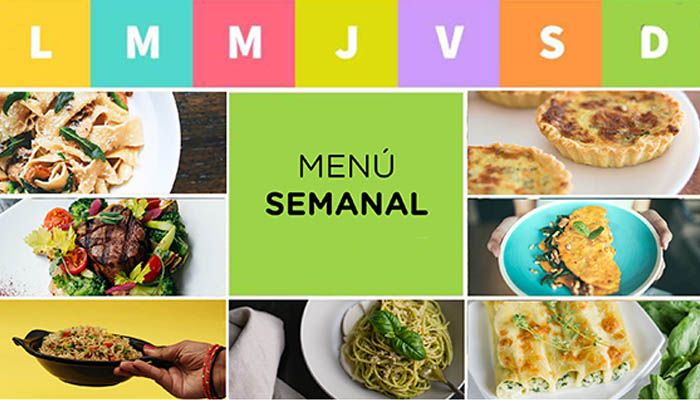
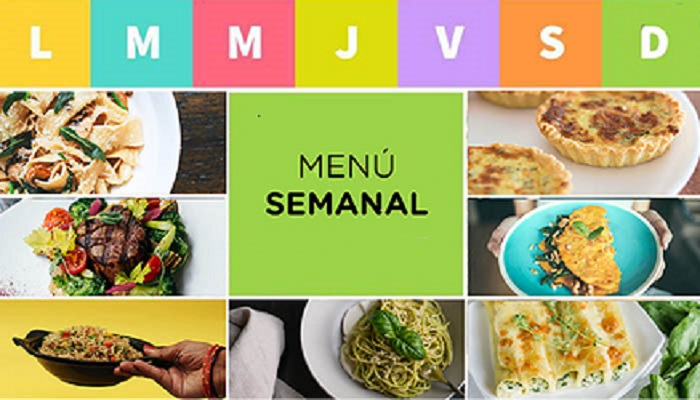
carousel

diff --git a/index.html b/index.html
@@ -8,6 +8,7 @@
       rel="stylesheet">
     <link rel="stylesheet" href="./css/estilos.css">
     <script src="https://kit.fontawesome.com/cf6a7ffcdc.js" crossorigin="anonymous"></script>
+    <link rel="stylesheet" href="https://cdn.jsdelivr.net/npm/bootstrap@4.0.0/dist/css/bootstrap.min.css" integrity="sha384-Gn5384xqQ1aoWXA+058RXPxPg6fy4IWvTNh0E263XmFcJlSAwiGgFAW/dAiS6JXm" crossorigin="anonymous">
     <title>Fresh Market</title>
 </head>
 <body class="body-index">
@@ -22,7 +23,9 @@
         <article >
             <a href="./carrito.html"><span class="material-icons">
                 shopping_cart
-                </span></a>
+                </span>
+                <span id="cantidadCarrito"></span>
+            </a>
             
         </article>    
         </section>
@@ -46,11 +49,30 @@
         </ul>
     </nav>
     <main>
-        <section class="carrousel-principal">
-            <article >
-                <img src="./img/frutas-verduras-carrousel.jpg" alt="banner1" > 
-            </article>
-        </section>
+            <section id="carouselindex" class="carousel slide" data-ride="carousel">
+                <div class="carousel-inner">
+                  <div class="carousel-item active">
+                    <img class="d-block w-50" src="./img/menusemanal2.jpg" alt="First slide" >
+                  </div>
+                  <div class="carousel-item">
+                    <img class="d-block w-50" src="./img/frutas-verduras.jpg" alt="Second slide">
+                  </div>
+                  <div class="carousel-item">
+                    <img class="d-block w-50" src="./img/viandas-saludables-3.jpg" alt="Third slide">
+                  </div>
+                </div>
+
+                
+                <a class="carousel-control-prev" href="#carouselindex" role="button" data-slide="prev">
+                  <span class="carousel-control-prev-icon" aria-hidden="true"></span>
+                  <span class="sr-only">Previous</span>
+                </a>
+                <a class="carousel-control-next" href="#carouselindex" role="button" data-slide="next">
+                  <span class="carousel-control-next-icon" aria-hidden="true"></span>
+                  <span class="sr-only">Next</span>
+                </a>
+            </section>
+
         <section class="categorias">
             <h2>CATEGORIAS</h2>
             <article>
@@ -60,36 +82,55 @@
                 <a href="./categoriaViandas.html">VIANDAS</a>
             </article>
         </section>
-        <aside class="mas-vendidos" >
-            
-             <h2>PRODUCTOS MAS VENDIDOS</h2>    
-                <ul>               
-                <li class="menu1">
-                    <p>400$</p>
-                <label >Tarta verdura
-                    <a href="./carrito.html"><i class="fa-solid fa-cart-arrow-down"></i></a>
-                </label>
-                </li>
-                <li class="menu2">
-                    <p>400$</p>
-                    <label >Vianda 
-                        <a href="./carrito.html"><i class="fa-solid fa-cart-arrow-down"></i></a>
-                    </label>
-                </li>
-                <li class="menu3">
-                    <p>400$</p>
-                    <label >Menu detox
-                        <a href="./carrito.html"><i class="fa-solid fa-cart-arrow-down"></i></a>
-                    </label>
-                    
-                </li>
-                </ul>
+
+
+        <aside >
+            <h2 class="mas-vendidos-title">PRODUCTOS MAS VENDIDOS</h2>
+            <article class="mas-vendidos">
+                <div class="card" style="width: 18rem;">
+                    <img class="card-img-top" src="./img/tarta-calabaza.jpg" alt="Card image cap">
+                    <div class="card-body">
+                    <h5 class="card-title">Tarta de Verdura</h5>
+                    <p class="card-text">Tarta de una tapa con acelga, salsa blanca y queso dambo.</p>
+                    <a  name="agregar" class="btn btn-primary">Agregar al carrito</a>
+                    </div>
+                </div>
+                
+                <div class="card" style="width: 18rem;">
+                    <img class="card-img-top" src="./img/viandas-saludables-4.jpg" alt="Card image cap">
+                    <div class="card-body">
+                    <h5 class="card-title">Vianda Fit</h5>
+                    <p class="card-text">Vianda de 600kcal.</p>
+                    <a name="agregar" class="btn btn-primary">Agregar al carrito</a>
+                    </div>
+                </div>
+
+                <div class="card" style="width: 18rem;">
+                    <img class="card-img-top" src="./img/tarta-de-choclo.jpg" alt="Card image cap">
+                    <div class="card-body">
+                    <h5 class="card-title">Tarta de choclo</h5>
+                    <p class="card-text">Tarta de una tapa con choclo, verdeo y queso parmesano.</p>
+                    <a name="agregar" class="btn btn-primary">Agregar al carrito</a>
+                    </div>
+                </div>
+            </article>
         </aside>
-        
+    
         <aside class="metodos-pago"> 
-        
-                <h2>FORMAS DE PAGO</h2>
-                <img src="./img/medio_pago.png" alt="">
+            
+            <div id="carouselExampleSlidesOnly" class="carousel slide" data-ride="carousel">
+                <div class="carousel-inner">
+                  <div class="carousel-item active">
+                    <img class="d-block w-80 data-interval="3000"" src="./img/medio_pago.png" alt="First slide">
+                  </div>
+                  <div class="carousel-item">
+                    <img class="d-block w-80 data-interval="3000"" src="./img/medio_pago.png" alt="Second slide">
+                  </div>
+                  <div class="carousel-item">
+                    <img class="d-block w-80 data-interval="3000"" src="./img/medio_pago.png" alt="Third slide">
+                  </div>
+                </div>
+              </div>
          
         </aside>
     </main>
@@ -118,6 +159,9 @@
                 </article>
         </section> 
     </footer>
-
+    <script src="https://code.jquery.com/jquery-3.2.1.slim.min.js" integrity="sha384-KJ3o2DKtIkvYIK3UENzmM7KCkRr/rE9/Qpg6aAZGJwFDMVNA/GpGFF93hXpG5KkN" crossorigin="anonymous"></script>
+    <script src="https://cdn.jsdelivr.net/npm/popper.js@1.12.9/dist/umd/popper.min.js" integrity="sha384-ApNbgh9B+Y1QKtv3Rn7W3mgPxhU9K/ScQsAP7hUibX39j7fakFPskvXusvfa0b4Q" crossorigin="anonymous"></script>
+    <script src="https://cdn.jsdelivr.net/npm/bootstrap@4.0.0/dist/js/bootstrap.min.js" integrity="sha384-JZR6Spejh4U02d8jOt6vLEHfe/JQGiRRSQQxSfFWpi1MquVdAyjUar5+76PVCmYl" crossorigin="anonymous"></script>
+    <script src="./script/script.js"></script>
 </body>
 </html>

diff --git a/css/estilos.css b/css/estilos.css
@@ -144,15 +144,7 @@
     color: #fff;
     padding:10px 10px;
 }
-.carrousel-principal{
-    background-color: #fff;
-    border-bottom: 1px solid black;
-    text-align: center;
-}
-.carrousel-principal img{
-    width: 98%;
-    height: 300px;
-}
+
 .categorias{
     background-color: #fff;
     margin: 80px;
@@ -186,90 +178,30 @@
 
 }
 
-.mas-vendidos h2{
-    background-color: #fff;
-    padding: 15px 0px 15px 0px;
+.mas-vendidos-title{
     text-align: center;
-    text-decoration: underline;
 }
-
-.mas-vendidos ul{
+.mas-vendidos {
     display:flex;
     justify-content: space-evenly;
     padding: 5px;
-    margin-bottom: 150px;
+    margin-top: 50px;
+    margin-bottom: 50px;
 
 }
-.mas-vendidos li{
-    height: 150px;
-    width: 150px;
-    list-style: none;
-    padding: 60px;
-    border: 2px solid grey;
-    border-radius: 5px;
-}
-.mas-vendidos  p{
-    text-decoration: none;
-    color: black;
-    padding: 5px 5px;
-    background-color: grey;
-    position: relative;
-    top: 100px;
-    left: 150px;
-    font-weight: bold;
-    font-size: 125%;
-    width: max-content;
-    border-radius: 5px;
-}
-.mas-vendidos label{
-    background-color: white;
-    position: relative;
-    top: 150px;
-    padding: 2px;
-    font-size: larger;
-}
-.mas-vendidos i{
-    color:black;
-}
-.mas-vendidos .menu1{
-    background-image: url(../img/tartas1.jpg);
-    background-repeat: no-repeat;
-    background-size: cover;
-
-}
-.mas-vendidos  .menu2{
-    background-image: url(../img/viandas-saludables-1.jpg);
-    background-repeat: no-repeat;
-    background-size: cover;
-
-}
-.mas-vendidos  .menu3{
-    background-image: url(../img/menu-semanal1.JPG);
-    background-repeat: no-repeat;
-    background-size: cover;
-}
-
 .metodos-pago{
-    background-color: #fff;
-    text-align: center;
-    margin: 80px;
-}
-.metodos-pago h2{
-    padding: 15px 0px 15px 0px;
-    text-decoration: underline;
+    margin-bottom: 6em;
 }
 .footer-main{
     position: absolute;
     bottom: 0;
+    margin-top: 100px;
     width: 100%;
 }
 .footer-principal{
     background-color: #018039;
     color: #fff;
-    
-    height: 80px;
     display: flex;
-    margin-top: 15px;
     padding-top: 15px;
     justify-content: space-around;
 }

diff --git a/script/script.js b/script/script.js
@@ -1,0 +1,19 @@
+var agregarAlCarrito = document.getElementsByName("agregar");
+var productosEnCarrito = document.getElementById("cantidadCarrito");
+var productoAgregado = 0;
+
+
+agregarAlCarrito.addEventListener("click",()=>{
+    productoAgregado++;
+    productosEnCarrito.innerHTML = productoAgregado;
+})
+
+
+
+/*
+agregarAlCarrito.addEventListener("click",(e)=>{
+    console.log(agregarAlCarrito.value);
+
+})
+
+*/
